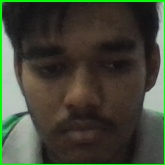
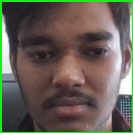
default cam

diff --git a/homecontent.py b/homecontent.py
@@ -2,100 +2,98 @@ import tkinter as tk
 from tkinter import ttk, messagebox
 from PIL import Image, ImageTk
 import cv2
- 
+
 class HomeContent(tk.Frame):
     def __init__(self, master, add_cctv_section):
         super().__init__(master)
         self.add_cctv_section = add_cctv_section
         self.load_cctv_addrs()
         self.configure(bg="#232831")
- 
+
         # Surveillance System Controls
         self.toggle_surveillance_button = tk.Button(self, text="ON/OFF", command=self.toggle_surveillance, font=('Century Gothic', 12), bg="#45aaf2", fg="white", padx=6, pady=5)
         self.toggle_surveillance_button.grid(row=0, column=0, sticky="w", padx=40, pady=20)
- 
+
         self.surveillance_status_label = tk.Label(self, text="Surveillance System: OFF", font=('Century Gothic', 12), bg="#232831", fg="white", padx=10, pady=5)
         self.surveillance_status_label.grid(row=0, column=1, sticky="w", padx=0, pady=20)
- 
+
         self.recording_status_label = tk.Label(self, text="                  ", font=('Century Gothic', 12), bg="#232831", fg="white", padx=10, pady=5)
         self.recording_status_label.grid(row=0, column=2, sticky="w", padx=0, pady=5)
- 
+
         # Camera Controls
         self.toggle_recording_button = tk.Button(self, text="START/STOP", command=self.toggle_recording, font=('Century Gothic', 12), bg="#45aaf2", fg="white", padx=6, pady=5)
         self.toggle_recording_button.grid(row=0, column=3, sticky="w", padx=0, pady=5)
- 
+
         self.recording_status_label = tk.Label(self, text="View Feed: OFF", font=('Century Gothic', 12), bg="#232831", fg="white", padx=10, pady=5)
         self.recording_status_label.grid(row=0, column=4, sticky="w", padx=0, pady=5)
- 
+
         # Camera Selection
         self.view_camera_label = tk.Label(self, text="View Camera:", font=('Century Gothic', 12), bg="#232831", fg="white", padx=10, pady=5)
         self.view_camera_label.grid(row=1, column=2, sticky="w", padx=0, pady=5)
- 
+
         # Create a button to trigger CCTV table update
         self.update_cctv_button = tk.Button(self, text="↺", command=self.update_cctv_table, font=('Century Gothic', 12), bg="#45aaf2", fg="white", padx=2, pady=1)
         self.update_cctv_button.grid(row=1, column=4, sticky="w", padx=10, pady=5)
- 
- 
+
+
         # Create a box with light blue background
         initial_width = 900
         initial_height = 550
         self.remaining_space_box = tk.Frame(self, bg="light blue", width=initial_width, height=initial_height, bd=2, relief=tk.SOLID)
         self.remaining_space_box.place(width=initial_width, height=initial_height, x=150, y=135, anchor="nw")  # Adjust the coordinates as needed
- 
+
         # Add label to the box
         self.viewing_label = tk.Label(self.remaining_space_box, text="No feed to show. Select a camera from list.", font=('Century Gothic', 12), bg="light blue", padx=10, pady=10)
         self.viewing_label.pack(expand=True)
- 
+
         # OpenCV variables
         self.video_source = None
         self.vid = None
         self.is_recording = False
- 
+
         # Bind the <Configure> event to the function
         master.bind("<Configure>", self.on_window_configure)
- 
+
     def update_cctv_table(self):
         # Call the load_cctv_addrs method to update the dropdown values
         self.load_cctv_addrs()
- 
+
     def toggle_surveillance(self):
         # Add code to toggle surveillance system and update label accordingly
         current_status = self.surveillance_status_label.cget("text")
         new_status = "OFF" if "ON" in current_status else "ON"
         self.surveillance_status_label.config(text=f"Surveillance System: {new_status}")
- 
+
     def toggle_recording(self):
         # Add code to toggle recording and update label accordingly
         current_status = self.recording_status_label.cget("text")
         new_status = "OFF" if "ON" in current_status else "ON"
         self.recording_status_label.config(text=f"View Feed: {new_status}")
- 
+
         if new_status == "ON":
             self.start_video_feed()
         else:
             self.stop_video_feed()
- 
+
     def load_cctv_addrs(self):
         self.camera_selection_var = tk.StringVar() # You can modify this based on your actual camera names
- 
+
         # Load CCTV addresses from AddCCTVSection
         self.cctv_addresses = self.add_cctv_section.load_cctv_table()
- 
+
         self.camera_dropdown = ttk.Combobox(self, textvariable=self.camera_selection_var, values=list(self.cctv_addresses.keys()), font=('Century Gothic', 12), state="readonly")
         self.camera_dropdown.set("Select Camera")  # Set default value
         self.camera_dropdown.grid(row=1, column=3, sticky="w", padx=10, pady=5)
- 
-    def start_video_feed(self):
-        selected_camera = self.camera_selection_var.get()
 
-        if selected_camera and selected_camera in self.cctv_addresses:
-            # If an IP camera address is selected, use it
-            ip_addr = self.cctv_addresses[selected_camera]
+    def start_video_feed(self):
+        # get the IP camera address
+        addr = self.camera_selection_var.get()
+        if addr == "Select Camera":
+            self.vid = cv2.VideoCapture(0)
+        else:
+            ip_addr = self.cctv_addresses[addr]
             ip_camera_address = f"http://{ip_addr}/video"
             self.vid = cv2.VideoCapture(ip_camera_address)
-        else:
-            # If no IP camera address is selected, use the default webcam
-            self.vid = cv2.VideoCapture(0)  # Use 0 as the argument for the default webcam
 
         if self.vid.isOpened():
             self.is_recording = True
@@ -114,23 +112,23 @@ class HomeContent(tk.Frame):
                 self.after(10, self.update_video_feed)
             else:
                 self.stop_video_feed()
- 
+
     def stop_video_feed(self):
         if self.vid:
             self.vid.release()
- 
+
         # Update the image to a default blue image or clear it
         default_image = Image.new("RGB", (1, 1), color="#add8e6")  # Default blue color
         default_photo = ImageTk.PhotoImage(default_image)
         self.viewing_label.configure(image=default_photo)
         self.viewing_label.image = default_photo
- 
+
         self.is_recording = False
- 
+
     def on_window_configure(self, event):
         # Adjust the size of the box when the window is resized
         self.remaining_space_box.configure(width=event.width - 120, height=event.height - 200)
- 
+
 # Driver code
 if __name__ == "__main__":
     root = tk.Tk()

diff --git a/new_registration.py b/new_registration.py
@@ -18,6 +18,7 @@ class NewRegistrationSection(tk.Frame):
         self.create_table()
         self.create_train_widgets()
         self.create_delete_button()
+        self.update_table()
 
     def initialize_connection(self):
         self.conn, self.cursor = initialize_connection()
@@ -128,9 +129,10 @@ class NewRegistrationSection(tk.Frame):
         return self.cursor.fetchall()
 
     def delete_selected_entry(self, event=None):
-        selected_item = self.table.selection()
+        selected_item = self.table.focus()
+        selected_item = self.table.item(selected_item, 'values')[0]
         if selected_item:
-            selected_id = selected_item[0]
+            selected_id = selected_item
             self.delete_user_from_database(selected_id)
             for i, entry in enumerate(self.data_entries):
                 if entry[0] == selected_id:
@@ -140,9 +142,9 @@ class NewRegistrationSection(tk.Frame):
 
     def delete_user_from_database(self, user_id):
         folder_path = os.path.join('User_Images', f"{user_id}_{self.username_var.get()}")
-        delete_query = "DELETE FROM newreg WHERE user_id = %s"
+        delete_query = f"DELETE FROM newreg WHERE user_id = {user_id}"
         try:
-            self.cursor.execute(delete_query, (int(user_id),))
+            self.cursor.execute(delete_query)
             self.conn.commit()
         except Exception as e:
             messagebox.showerror("Delete Error", f"Error deleting user from the database: {str(e)}")
